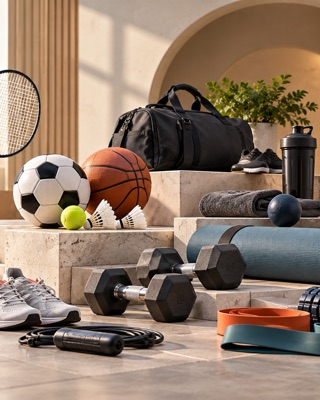
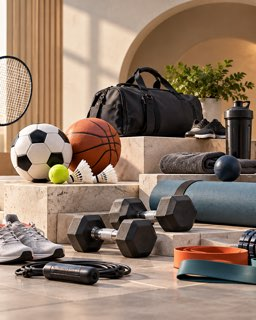
Home: each wall picture opens its category; faster image loading
Clicking (or tapping) a picture in the home hero now opens its category. The mapping is in src/home-wall.json (a picture not listed is not a link); the row stops under the pointer and the picture brightens and shows the category name. The wall is hidden from assistive tech and its links are out of the tab order, because the category strip below the hero covers the same links for keyboard and screen-reader users.

Speed: images had no cache rule, so they were re-checked on every visit (cache-control max-age=0). They now cache for 7 days with stale-while-revalidate (_headers). The 18 wall pictures are 256x320 at quality 60 (about 23 KB each, was about 50 KB), and the five category pictures are re-encoded smaller at the same dimensions. Images on the home page drop from about 960 KB to about 485 KB.

diff --git a/frontend/src/css/pages/home.css b/frontend/src/css/pages/home.css
@@ -36,6 +36,19 @@
 .home-dup { display: contents; }
 .home-collage .tile { flex: none; display: block; width: clamp(110px, 12vw, 190px); aspect-ratio: 4 / 5; border-radius: 16px; overflow: hidden; background: #1a2a4a; box-shadow: 0 14px 30px rgba(0, 0, 0, .4); }
 .home-collage .tile img { width: 100%; height: 100%; object-fit: cover; display: block; }
+/* a picture opens its category: the row stops under the pointer, the picture brightens and the category name slides up */
+.home-collage a.tile { position: relative; cursor: pointer; text-decoration: none; -webkit-tap-highlight-color: transparent; }
+.home-collage a.tile img { transition: transform .5s ease, filter .35s ease; }
+.home-collage a.tile::after {
+  content: attr(data-cat); position: absolute; left: 8px; right: 8px; bottom: 8px; padding: 7px 10px; border-radius: 10px;
+  background: rgba(7, 11, 20, .78); color: #fff; font-size: .78rem; font-weight: 700; line-height: 1.2; text-align: center;
+  opacity: 0; transform: translateY(8px); transition: opacity .25s ease, transform .25s ease; pointer-events: none;
+}
+@media (hover: hover) {
+  .home-collage a.tile:hover img { transform: scale(1.08); filter: brightness(1.18) saturate(1.1); }
+  .home-collage a.tile:hover::after { opacity: 1; transform: none; }
+  .home-row:hover .home-track { animation-play-state: paused; }
+}
 @media (min-width: 1000px) {
   .home-hero::before { background:
     radial-gradient(ellipse 46% 78% at 50% 50%, rgba(8, 13, 26, .94), rgba(8, 13, 26, .55) 72%, rgba(8, 13, 26, .15)),

diff --git a/frontend/build.py b/frontend/build.py
@@ -320,11 +320,20 @@ HOME_ROW_MIN_TILES = 16  # about 3,300 px of tiles at full size, so one copy fil
 
 
 def home_collage():
-    """Home hero background: drifting rows of lifestyle pictures from static/images/home (a video can sit under it)."""
+    """Home hero background: drifting rows of pictures from static/images/home (a video can sit under it).
+    Each picture opens its category when clicked (src/home-wall.json); the links are for mouse and touch users, the category strip below the hero is the keyboard route."""
     folder = SRC / "static" / "images" / "home"
     names = sorted(p.name for p in folder.glob("*.jpg")) if folder.exists() else []
     if not names:
         return ""
+    wall_path = SRC / "home-wall.json"
+    wall = {t["file"]: t["category"] for t in json.loads(read(wall_path)).get("tiles", [])} if wall_path.exists() else {}
+    cats = {c["slug"]: c for c in CATEGORIES}
+    for f, slug in wall.items():
+        if f not in names:
+            warnings.append(f"src/home-wall.json lists {f}, which is not in static/images/home")
+        if slug not in cats:
+            errors.append(f"src/home-wall.json: {f} points to unknown category {slug}")
     rows = [names[k::3] for k in range(3)]
     out = []
     for n, row in enumerate(rows):
@@ -334,13 +343,19 @@ def home_collage():
         row = row * -(-HOME_ROW_MIN_TILES // len(row))
         # the row is written twice so the loop never shows a gap; the copy is hidden from assistive tech
         def tiles(copy):
-            return "".join(
-                f'<span class="tile"><img src="/images/home/{esc(name)}" alt="" width="320" height="400" '
-                f'loading="{"eager" if (n == 0 and not copy and i < 6) else "lazy"}" decoding="async"></span>'
-                for i, name in enumerate(row))
+            parts = []
+            for i, name in enumerate(row):
+                img = (f'<img src="/images/home/{esc(name)}" alt="" width="256" height="320" '
+                       f'loading="{"eager" if (n == 0 and not copy and i < 6) else "lazy"}" decoding="async">')
+                cat = cats.get(wall.get(name))
+                if cat:
+                    parts.append(f'<a class="tile" href="{esc(cat["url"])}" data-cat="{esc(cat["name"])}" tabindex="-1">{img}</a>')
+                else:
+                    parts.append(f'<span class="tile">{img}</span>')
+            return "".join(parts)
         out.append(f'<div class="home-row home-row-{n + 1}"><div class="home-track">{tiles(False)}'
-                   f'<span class="home-dup" aria-hidden="true">{tiles(True)}</span></div></div>')
-    return '<div class="home-collage">\n      ' + "\n      ".join(out) + "\n    </div>"
+                   f'<span class="home-dup">{tiles(True)}</span></div></div>')
+    return '<div class="home-collage" aria-hidden="true">\n      ' + "\n      ".join(out) + "\n    </div>"
 
 
 def category_banner(cat):
@@ -1652,6 +1667,8 @@ def write_headers():
         "/assets/*\n  Cache-Control: public, max-age=31536000, immutable\n\n"
         "/search-index.*\n  Cache-Control: public, max-age=31536000, immutable\n\n"
         "/videos/*\n  Cache-Control: public, max-age=86400\n\n"
+        "/images/*\n  Cache-Control: public, max-age=604800, stale-while-revalidate=86400\n\n"
+        "/favicon.svg\n  Cache-Control: public, max-age=604800\n\n"
         "/*\n  X-Content-Type-Options: nosniff\n  Referrer-Policy: strict-origin-when-cross-origin\n",
         encoding="utf-8")
 

diff --git a/frontend/src/static/images/README.md b/frontend/src/static/images/README.md
@@ -6,7 +6,7 @@ Served from the site root, so `src/static/images/categories/sports-fitness.jpg` 
 images/
   categories/   one picture per top-level category: <category-slug>.jpg (4:3, about 736 x 552)
                 and <category-slug>-thumb.jpg (square, 160 x 160, used in the menu)
-  home/         lifestyle pictures for the home hero (4:5 portrait, 320 x 400, about 50 KB each); every .jpg in this folder joins the drifting rows, in file-name order (01-, 02-, 03- ... picture 1 goes to row 1, picture 2 to row 2, picture 3 to row 3, picture 4 to row 1 again, so number them to mix the categories). 18 pictures give six per row; a row with fewer is repeated automatically so it still fills wide screens
+  home/         lifestyle pictures for the home hero (4:5 portrait, 256 x 320, JPEG quality about 60, about 25 KB each; each one opens a category through src/home-wall.json); every .jpg in this folder joins the drifting rows, in file-name order (01-, 02-, 03- ... picture 1 goes to row 1, picture 2 to row 2, picture 3 to row 3, picture 4 to row 1 again, so number them to mix the categories). 18 pictures give six per row; a row with fewer is repeated automatically so it still fills wide screens
   banners/      one folder per category slug (clothing-accessories, sports-fitness, beauty-personal-care, home-kitchen) with 900 x 405 pictures (about 2.2:1, quality 55-60, under 80 KB each).
                 They fade softly behind the category page header and rotate every few seconds, in file-name order (01-, 02- ...). Add or remove a .jpg to change them. Watches has no banner folder on purpose.
   products/     <product-id>.jpg  (square, about 800 x 800)
